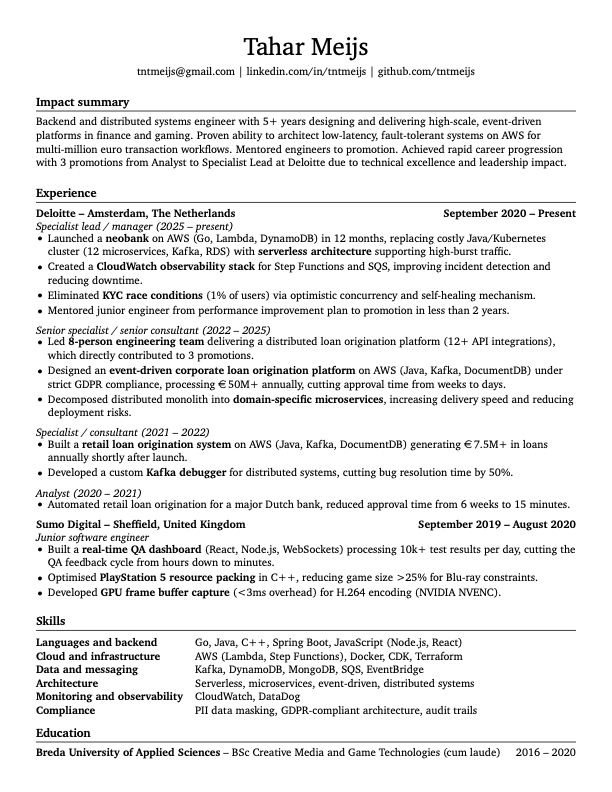
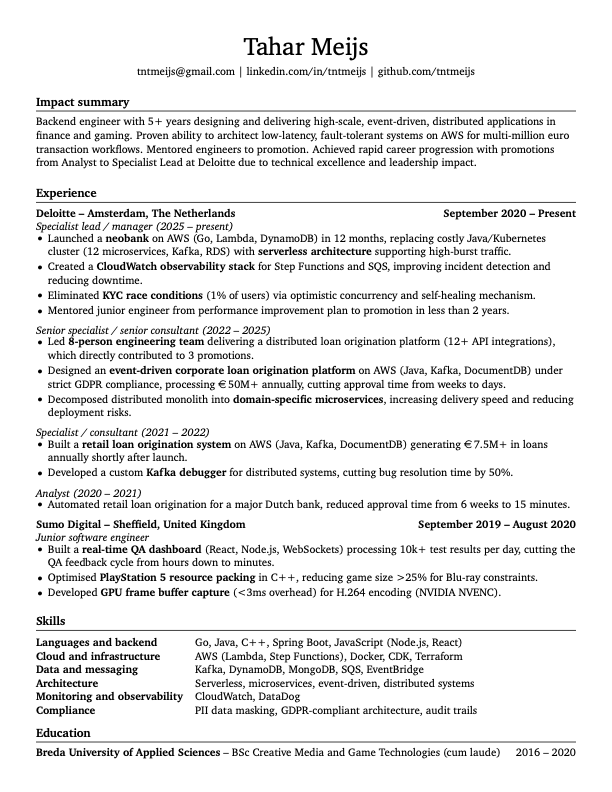
fix: do not use distributed systems in impact summary

Changed region(s): [[0.0621, 0.1515, 0.9314, 0.2121]]

diff --git a/backend_software_engineer.tex b/backend_software_engineer.tex
@@ -38,10 +38,10 @@ right=0.5in]{geometry}              % specify right page margin
 \centerline{\href{mailto:tntmeijs@gmail.com}{tntmeijs@gmail.com} | \href{https://www.linkedin.com/in/tntmeijs/}{linkedin.com/in/tntmeijs} | \href{https://github.com/tntmeijs}{github.com/tntmeijs}}
 
 \section*{Impact summary}
-Backend and distributed systems engineer with 5+ years designing and delivering high-scale, event-driven platforms in finance and gaming.
+Backend engineer with 5+ years designing and delivering high-scale, event-driven, distributed applications in finance and gaming.
 Proven ability to architect low-latency, fault-tolerant systems on AWS for multi-million euro transaction workflows.
 Mentored engineers to promotion.
-Achieved rapid career progression with 3 promotions from Analyst to Specialist Lead at Deloitte due to technical excellence and leadership impact.
+Achieved rapid career progression with promotions from Analyst to Specialist Lead at Deloitte due to technical excellence and leadership impact.
 
 % experience section
 \section*{Experience}
